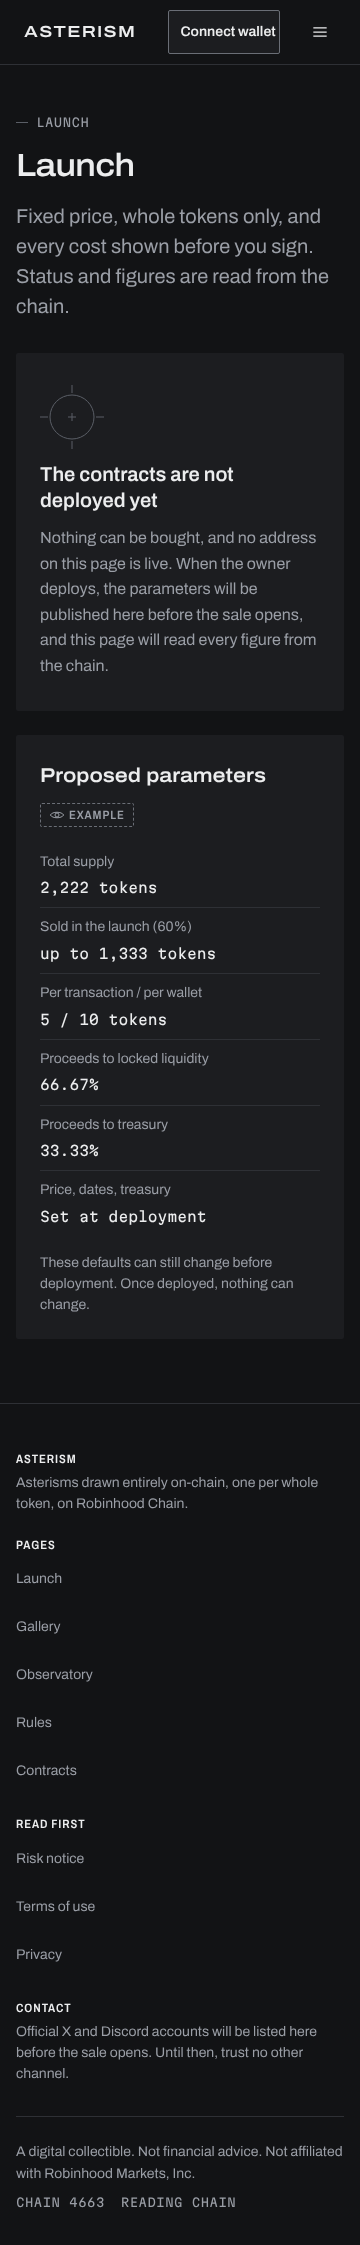
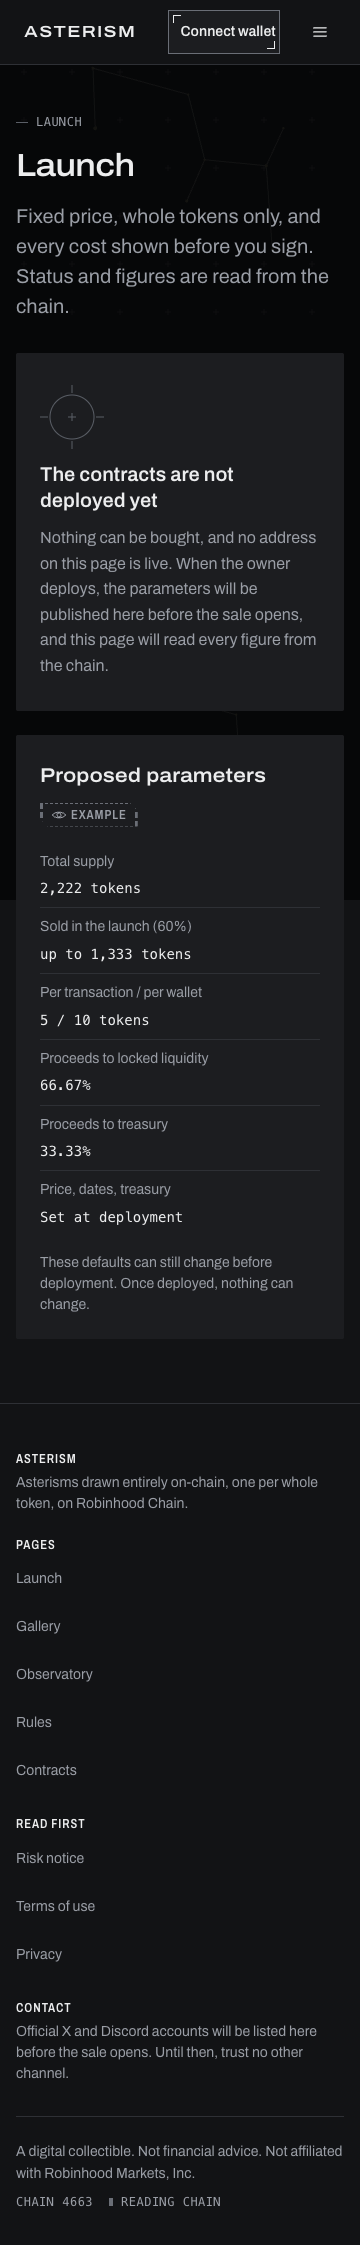
Record D-041 and refresh desktop and mobile screenshots

diff --git a/docs/DECISIONS.md b/docs/DECISIONS.md
@@ -339,3 +339,9 @@ D-038. **DEX untuk gladi bersih testnet:** `script/DeployTestnetDex.s.sol` (via 
 D-039. **Lint dan CI:** `eslint` 10.14.0 dan `eslint-config-next` 16.4.6 (konfigurasi `eslint.config.mjs` sesuai docs terpasang); dua pelanggaran `react-hooks/set-state-in-effect` diperbaiki (pilihan aset di Observatory diturunkan, bukan disimpan lewat efek; hitung sifat galeri tanpa seed tidak lagi menyetel state di efek). Alur CI di `.github/workflows/ci.yml` memakai tingkat gratis dan tanpa rahasia.
 
 D-040. **Vercel sebagai host kedua:** pemilik memilih Vercel walaupun saya merekomendasikan Cloudflare Pages. Perubahan: `web/vercel.json` (framework `null`, output `out`, header statis), `web/api/rpc.ts` dan `web/api/geo.ts` (format Web Handler `export default { fetch }`, runtime `nodejs`; format dan `config` dari dokumen Vercel Functions yang dibaca di sesi), logika kebijakan tetap satu di `functions/_lib`. `handleRpc` menerima `siteUrl` opsional karena asal situs di Vercel diturunkan dari header `host`/`x-forwarded-proto` (dokumen "Request headers": `host` berisi domain yang diakses klien), bukan dari `request.url`. Negara di Vercel hanya dari `x-vercel-ip-country` (`geoResponse` dipakai bersama); di Cloudflare tetap `request.cf.country`. Kekurangan yang diterima: tidak ada `RPC_LIMITER` di kode (lihat langkah 7b.4); CSP berupa meta tag karena `_headers` diabaikan Vercel dan `vercel.json` dibaca sebelum build (tanpa `frame-ancestors`, diganti `X-Frame-Options`). Jalur Cloudflare tetap berfungsi (e2e 20/20 setelah perubahan). Batas 2000 karakter CSP hanya berlaku untuk build Cloudflare (D-039 terkait). Perilaku fungsi di platform Vercel sungguhan belum teramati dari sesi ini; hanya diuji lewat unit test dan peramban terhadap halaman statis dengan meta CSP.
+
+D-041. **Bidang ukur Diffraction bergerak.** Memperbarui D-012 atas persetujuan pemilik. Dasar grafit datar memuat tanda silang kisi, cakram bintang, garis pohon rentang minimum, dan cincin difraksi dari titik tekan. Titik dan garis berasal dari geometri renderer referensi dengan seed contoh. Bidang dekoratif ini tidak menyatakan data peluncuran. Warna bidang dibatasi oleh token tinta buram, tanpa gradien, kabut, atau pendar. Bingkai, kontrol, dan indikator memakai rel, sudut potong, dan tanda ukur. Pratinjau seni memakai lapisan SVG terpisah di atas gambar asli, sehingga keluaran renderer tetap sama byte demi byte.
+
+Canvas 2D dimuat setelah `load` pada saat idle bila tersedia, dengan satu loop animasi, rasio piksel maksimum 2, dan jumlah rasi lebih sedikit pada layar kecil atau perangkat dengan sedikit inti. Loop berhenti saat tab tersembunyi atau kanvas di luar layar. Preferensi pengurangan gerak menampilkan bidang statis, meniadakan tarikan tombol, kemiringan panel, dan animasi masuk, serta langsung menampilkan angka terbaru. Token `--field-*` dan `--instrument-*` mengatur palet, geometri, dan durasi. Tidak ada dependensi produksi baru.
+
+Pada pointer halus, reticle mengikuti posisi pointer tanpa mengganti kursor asli dan disembunyikan di atas kontrol masukan. Pada layar sentuh, bintang tetap bergeser pelan dan ketukan menghasilkan cincin. Jeda minimum antar cincin membatasi laju perubahan visual. Uji kontras membandingkan setiap tinta bidang dengan rasio teks di atas `--surface`. Font lokal memakai `font-display: optional` agar font yang terlambat dimuat tidak menggeser tata letak.
